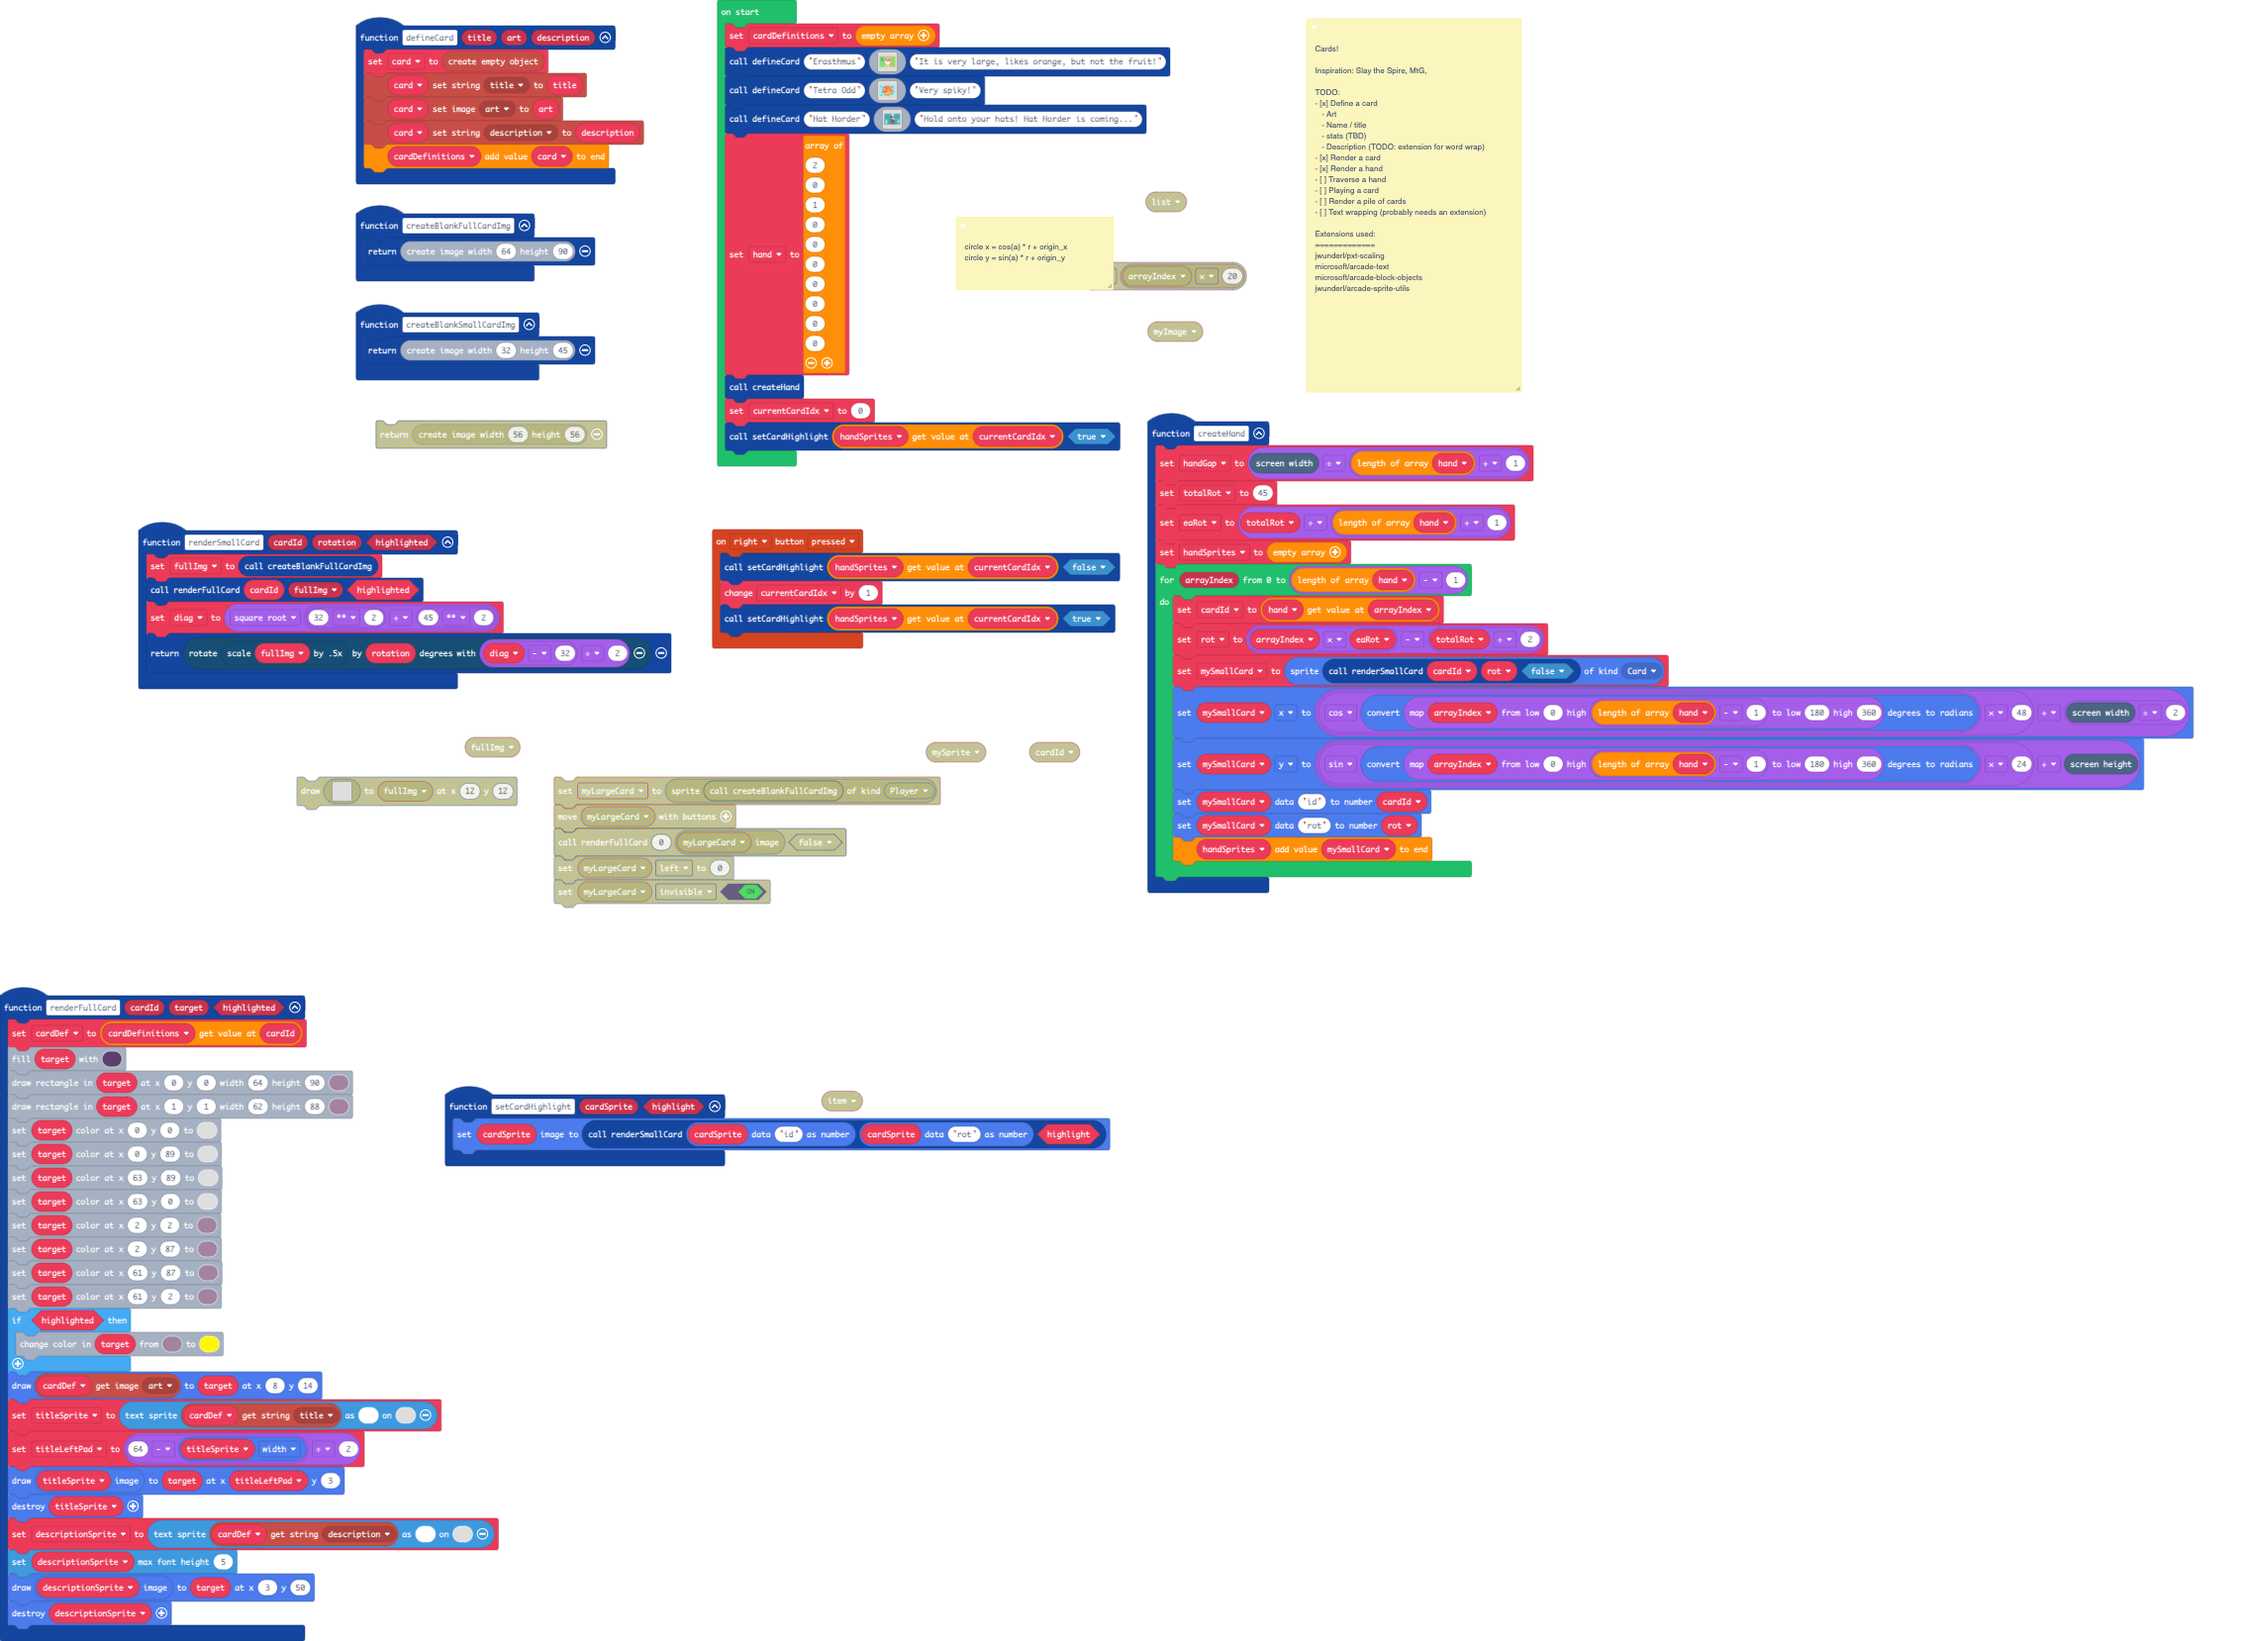
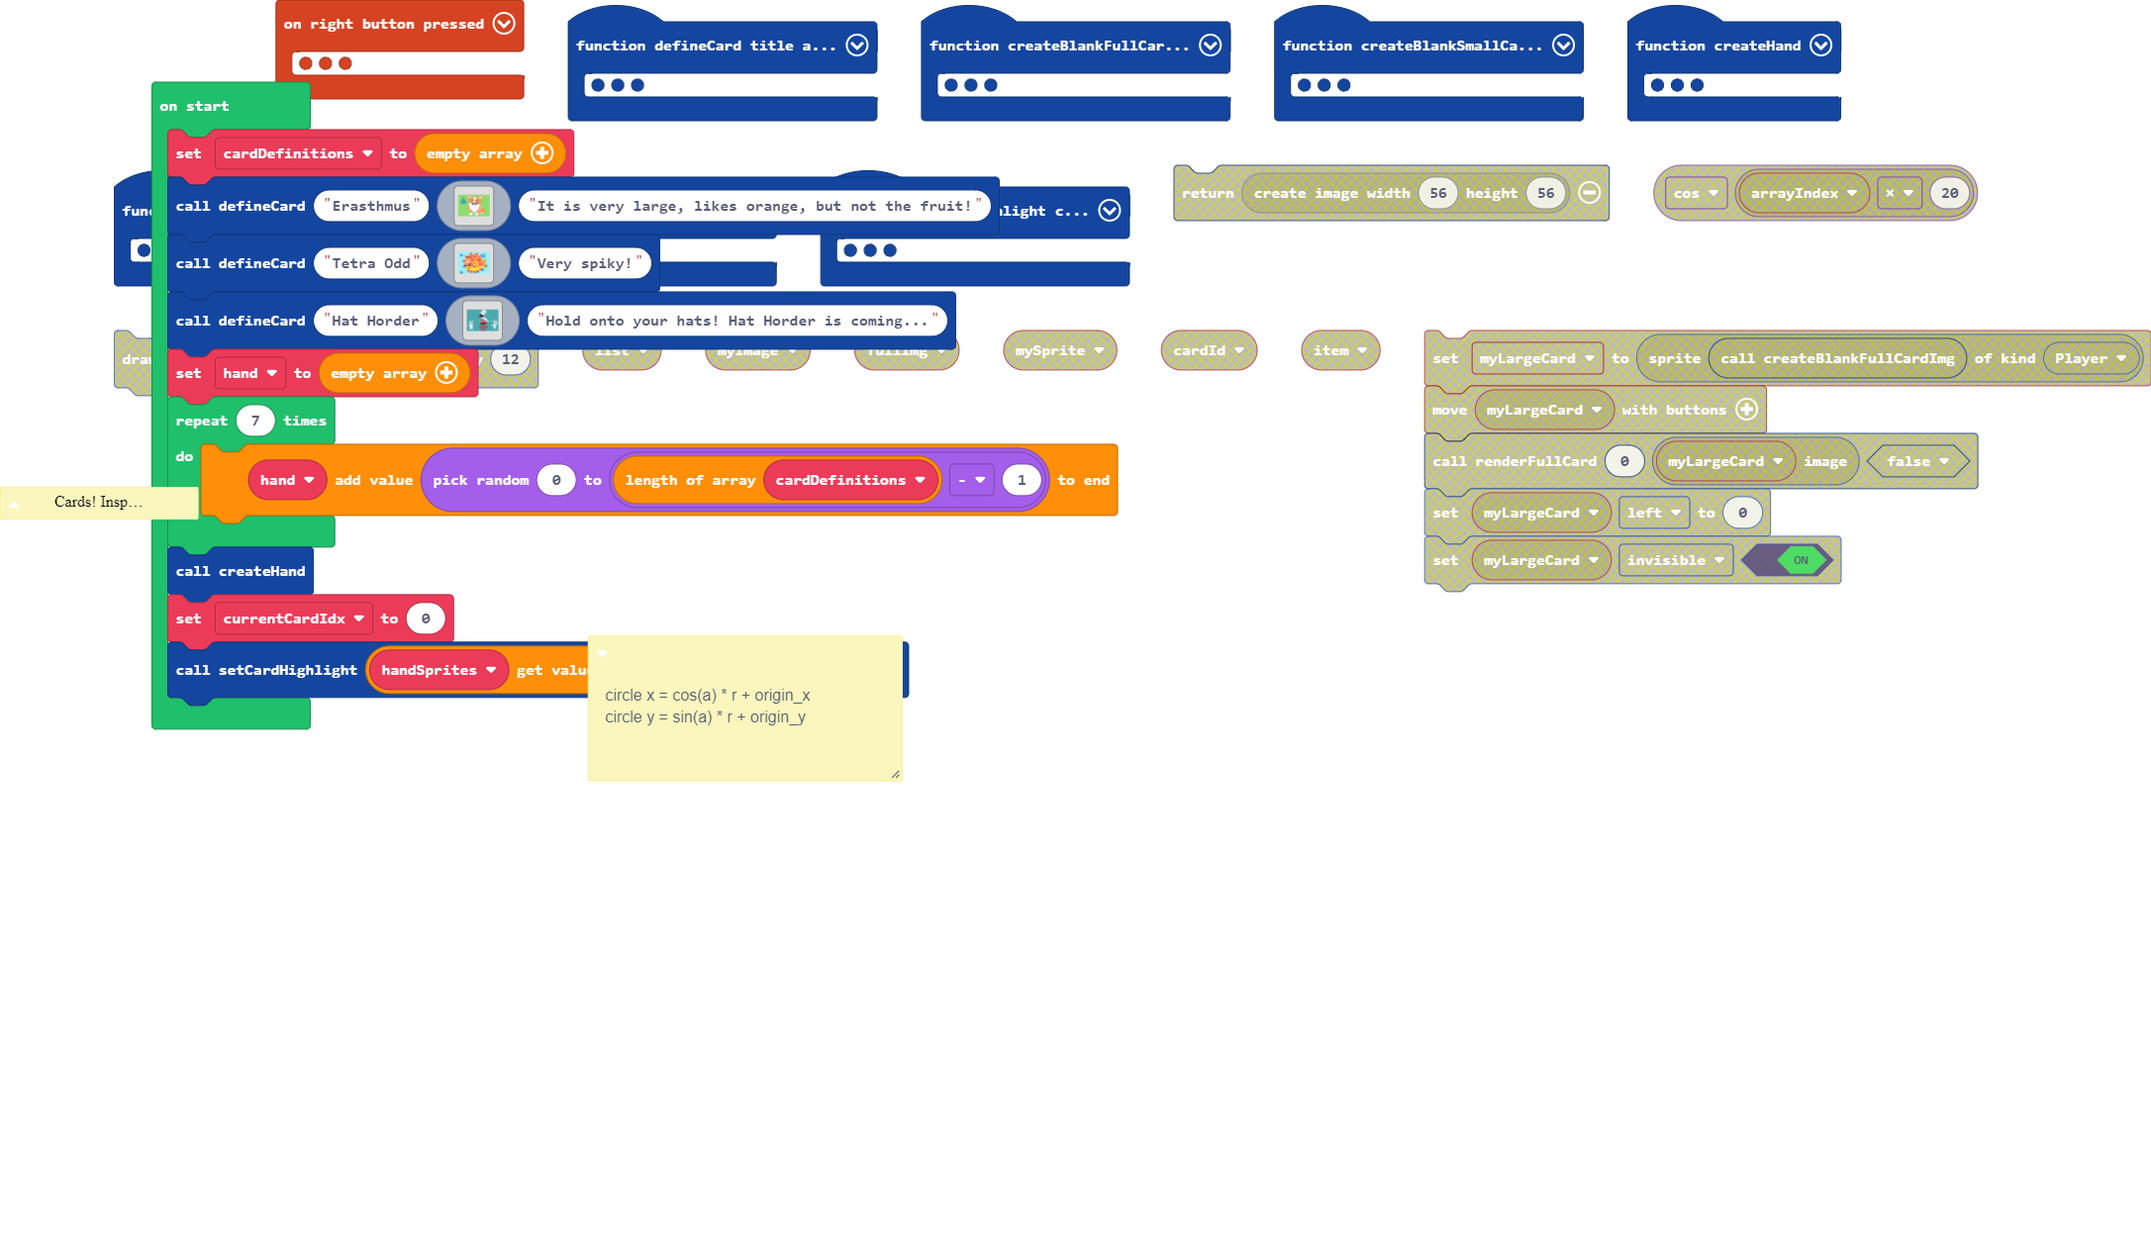
change initial hand selection

diff --git a/main.ts b/main.ts
@@ -8,47 +8,6 @@ namespace StrProp {
 namespace ImageProp {
     export const art = ImageProp.create()
 }
-/**
- * Cards!
- * 
- * Inspiration: Slay the Spire, MtG, 
- * 
- * TODO:
- * 
- * - [x] Define a card
- * 
- *    - Art
- * 
- *    - Name / title
- * 
- *    - stats (TBD)
- * 
- *    - Description (TODO: extension for word wrap)
- * 
- * - [x] Render a card
- * 
- * - [x] Render a hand
- * 
- * - [ ] Traverse a hand
- * 
- * - [ ] Playing a card
- * 
- * - [ ] Render a pile of cards
- * 
- * - [ ] Text wrapping (probably needs an extension)
- * 
- * Extensions used:
- * 
- * =============
- * 
- * jwunderl/pxt-scaling
- * 
- * microsoft/arcade-text
- * 
- * microsoft/arcade-block-objects
- * 
- * jwunderl/arcade-sprite-utils
- */
 function setCardHighlight (cardSprite: Sprite, highlight: boolean) {
     cardSprite.setImage(renderSmallCard(sprites.readDataNumber(cardSprite, "id"), sprites.readDataNumber(cardSprite, "rot"), highlight))
 }
@@ -118,6 +77,47 @@ function defineCard (title: string, art: Image, description: string) {
     blockObject.setStringProperty(card, StrProp.description, description)
     cardDefinitions.push(card)
 }
+/**
+ * Cards!
+ * 
+ * Inspiration: Slay the Spire, MtG, 
+ * 
+ * TODO:
+ * 
+ * - [x] Define a card
+ * 
+ *    - Art
+ * 
+ *    - Name / title
+ * 
+ *    - stats (TBD)
+ * 
+ *    - Description (TODO: extension for word wrap)
+ * 
+ * - [x] Render a card
+ * 
+ * - [x] Render a hand
+ * 
+ * - [ ] Traverse a hand
+ * 
+ * - [ ] Playing a card
+ * 
+ * - [ ] Render a pile of cards
+ * 
+ * - [ ] Text wrapping (probably needs an extension)
+ * 
+ * Extensions used:
+ * 
+ * =============
+ * 
+ * jwunderl/pxt-scaling
+ * 
+ * microsoft/arcade-text
+ * 
+ * microsoft/arcade-block-objects
+ * 
+ * jwunderl/arcade-sprite-utils
+ */
 /**
  * circle x = cos(a) * r + origin_x
  * 
@@ -243,18 +243,10 @@ defineCard("Hat Horder", img`
     6666616666666666666666eec6eec6666666666666666666
     666666666666666666666eecc6eeec666666666666666666
     `, "Hold onto your hats! Hat Horder is coming...")
-hand = [
-2,
-0,
-1,
-0,
-0,
-0,
-0,
-0,
-0,
-0
-]
+hand = []
+for (let index = 0; index < 7; index++) {
+    hand.push(randint(0, cardDefinitions.length - 1))
+}
 createHand()
 currentCardIdx = 0
 setCardHighlight(handSprites[currentCardIdx], true)
